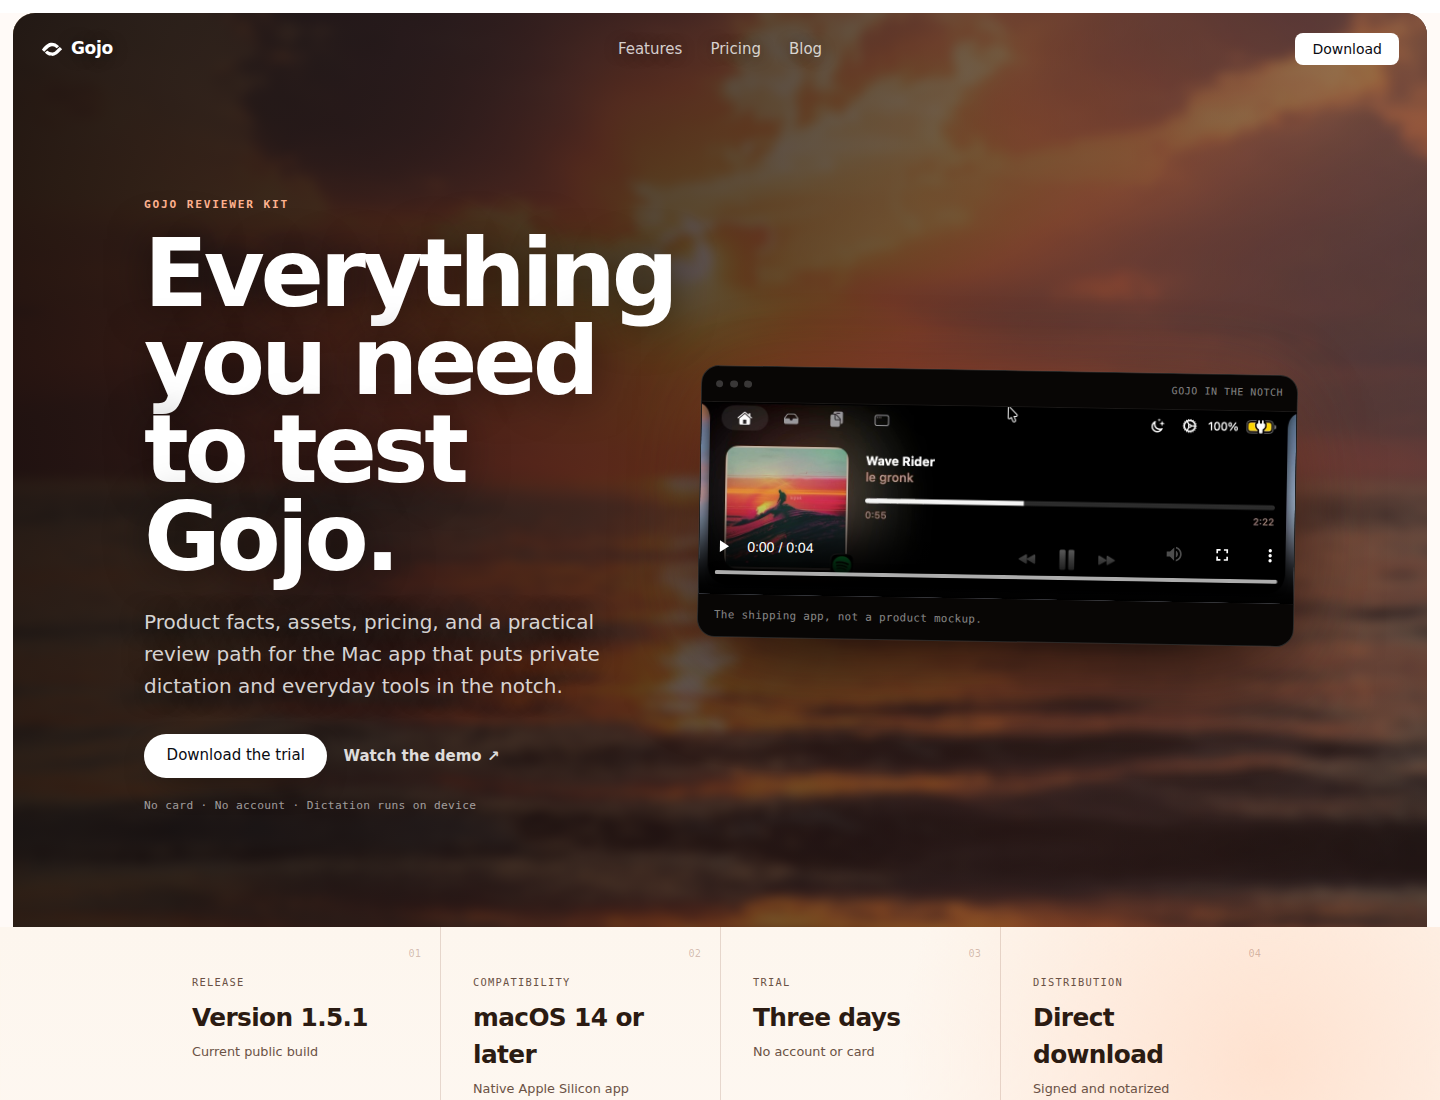
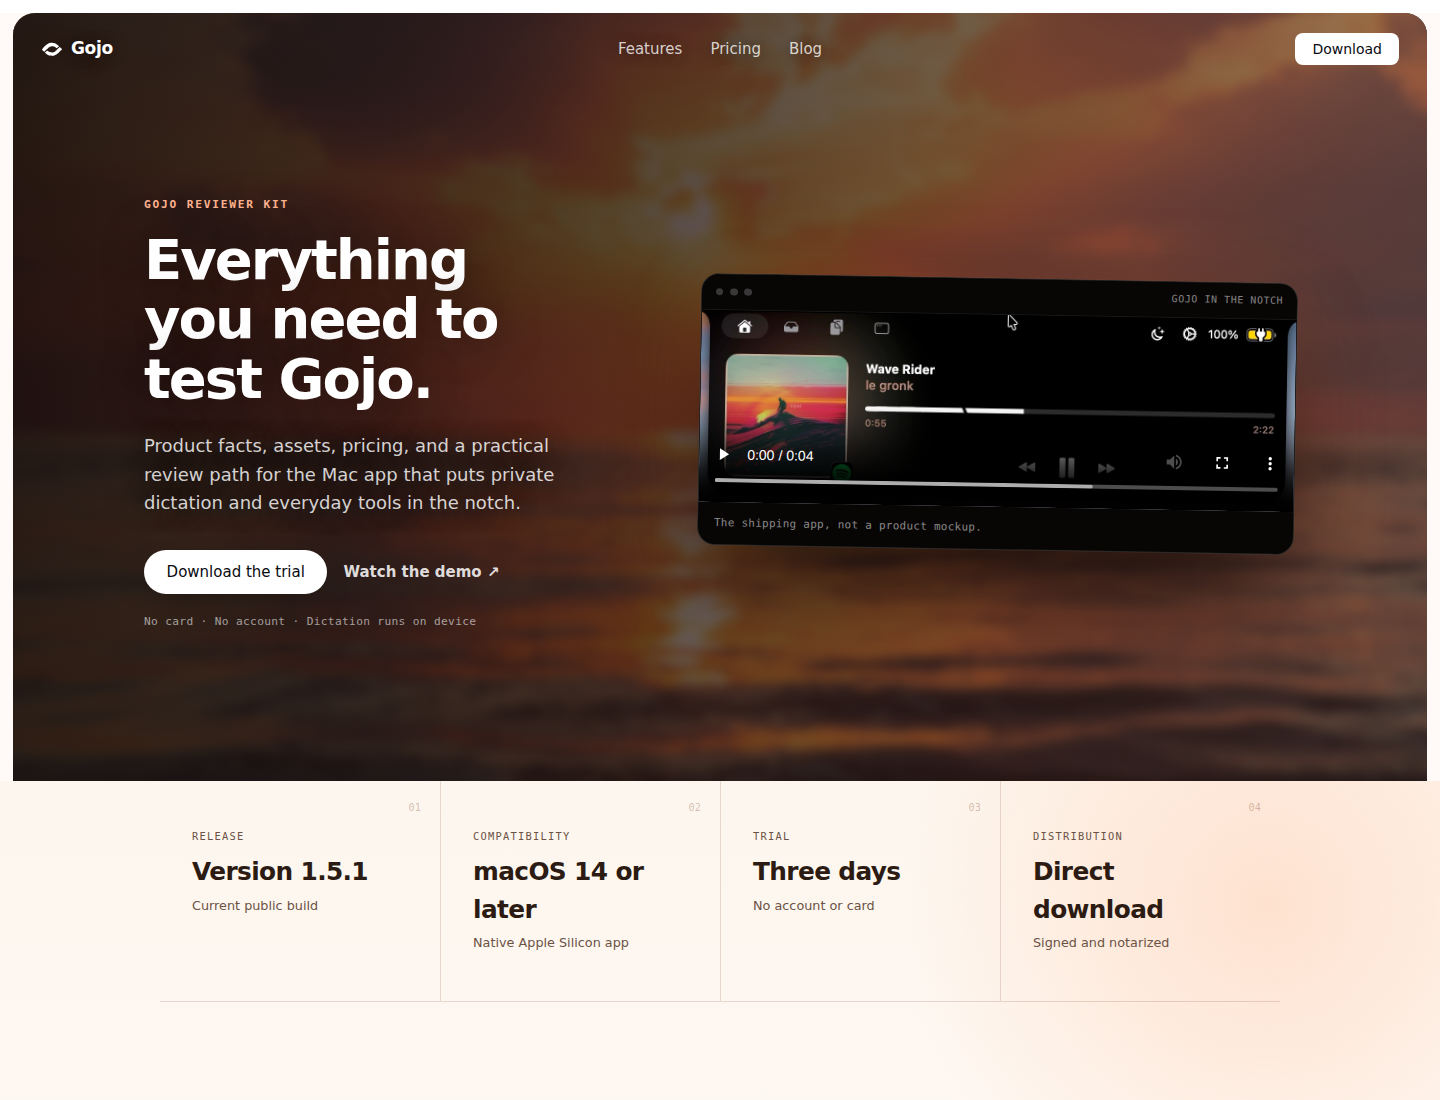
Match press typography to the landing system

diff --git a/web/app/press.css b/web/app/press.css
@@ -88,14 +88,14 @@
 }
 
 .press-hero h1 {
-  max-width: 10ch;
+  max-width: 16ch;
   margin: 0;
   color: #fff;
   font-family: var(--display);
-  font-size: clamp(3.3rem, 6.5vw, 6rem);
+  font-size: var(--step-display);
   font-weight: 550;
-  letter-spacing: -0.045em;
-  line-height: 0.94;
+  letter-spacing: -0.035em;
+  line-height: 1.06;
   text-wrap: balance;
   text-shadow: 0 2px 42px rgba(0, 0, 0, 0.5);
 }
@@ -104,7 +104,7 @@
   max-width: 35rem;
   margin: 1.5rem 0 0;
   color: rgba(255, 255, 255, 0.82);
-  font-size: clamp(1.05rem, 1.6vw, 1.25rem);
+  font-size: var(--step-lede);
   line-height: 1.6;
   text-wrap: pretty;
   text-shadow: 0 1px 24px rgba(0, 0, 0, 0.68);
@@ -276,13 +276,13 @@
 
 .press-section-heading h2,
 .press-pricing h2 {
-  max-width: 13ch;
+  max-width: 16ch;
   margin: 0;
   font-family: var(--display);
-  font-size: clamp(2.5rem, 5vw, 4.75rem);
+  font-size: var(--step-h2);
   font-weight: 550;
-  letter-spacing: -0.045em;
-  line-height: 0.98;
+  letter-spacing: -0.03em;
+  line-height: 1.1;
   text-wrap: balance;
 }
 
@@ -341,7 +341,7 @@
 }
 
 .press-review .press-section-heading h2 {
-  max-width: 11ch;
+  max-width: 16ch;
 }
 
 .press-review .press-section-heading > p:last-child {
@@ -552,10 +552,6 @@
   .press-hero {
     width: min(calc(100% - 2.25rem), 72rem);
     padding-top: 3rem;
-  }
-
-  .press-hero h1 {
-    font-size: clamp(3rem, 15vw, 4.2rem);
   }
 
   .press-demo {

diff --git a/web/DESIGN.md b/web/DESIGN.md
@@ -97,7 +97,7 @@ components:
 
 Gojo uses one system across the homepage, feature pages, comparisons, downloads, legal pages, and press materials. The visual language pairs a focused sunset hero with quiet editorial reading surfaces. Product UI is evidence, not decoration.
 
-`app/design-tokens.css` is the runtime source of truth. This file describes how agents and contributors apply those tokens. Do not introduce a page-local font stack, content width, or brand palette.
+The landing and high-emphasis marketing headings deliberately use a separate rounded display font. That is not the body font: reading copy, navigation, controls, and quieter utility pages stay on the native sans-serif stack. `app/design-tokens.css` is the runtime source of truth. This file describes how agents and contributors apply those roles. Do not introduce a page-local font stack, content width, or brand palette.
 
 ## Colors
 
